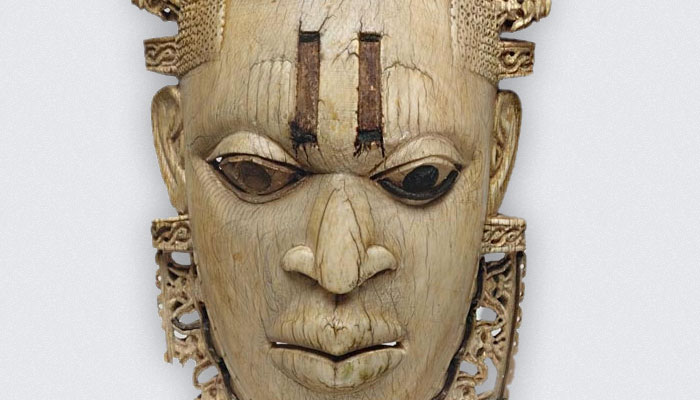
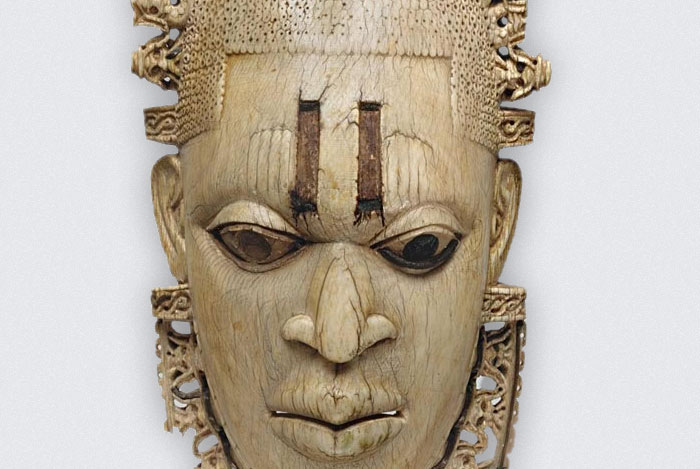
larger mask to allow for flash messages

Changed region(s): [[0.18, 0.0, 0.81, 0.99]]

diff --git a/ckanext/edo/public/styles/edo.css b/ckanext/edo/public/styles/edo.css
@@ -1,1 +1,1 @@
-.masthead{padding-top:8px;padding-bottom:7px}.nav-item.active>a:before{background-image:none;width:0;height:0;border-top:17px solid transparent;border-bottom:17px solid transparent;border-left:6px solid #8ca0a6}.site-footer .attribution{float:right}.site-footer .attribution strong{float:left}.site-footer .attribution .ckan-footer-logo{float:left;margin-left:10px}.site-footer .lang-select{clear:left;padding-top:10px}.hero{padding:0}.hero:before{content:' ';position:absolute;height:7px;width:100%;z-index:1;background:-moz-linear-gradient(top,rgba(0,0,0,0.25) 0,rgba(0,0,0,0) 100%);background:-webkit-gradient(linear,left top,left bottom,color-stop(0%,rgba(0,0,0,0.25)),color-stop(100%,rgba(0,0,0,0)));background:-webkit-linear-gradient(top,rgba(0,0,0,0.25) 0,rgba(0,0,0,0) 100%);background:-o-linear-gradient(top,rgba(0,0,0,0.25) 0,rgba(0,0,0,0) 100%);background:-ms-linear-gradient(top,rgba(0,0,0,0.25) 0,rgba(0,0,0,0) 100%);background:linear-gradient(to bottom,rgba(0,0,0,0.25) 0,rgba(0,0,0,0) 100%);filter:progid:DXImageTransform.Microsoft.gradient(startColorstr='#4d000000',endColorstr='#00000000',GradientType=0)}.hero>.container{padding-top:20px}.hero .hero-primary .module-content{-webkit-border-bottom-right-radius:0;-webkit-border-bottom-left-radius:0;-moz-border-radius-bottomright:0;-moz-border-radius-bottomleft:0;border-bottom-right-radius:0;border-bottom-left-radius:0}.hero .tags ul,.tags ul.tag-list{list-style:none}.hero .tags ul{margin:0;padding:0}.tags ul.tag-list{padding:15px}.hero .tags ul li,.hero .tags ul a.tag,.tags ul.tag-list li,.tags ul.tag-list a.tag{height:24px;line-height:24px;position:relative;font-size:11px}.hero .tags ul li,.hero .tags ul a.tag{float:left}.hero .tags ul a.tag,.tags ul.tag-list a.tag{margin-left:10px;padding:0 10px 0 12px;background:#005d7a;color:#fff;text-decoration:none;-webkit-border-radius:4px;-webkit-border-top-right-radius:0;-webkit-border-bottom-right-radius:0;-moz-border-radius:4px;-moz-border-radius-topright:0;-moz-border-radius-bottomright:0;border-radius:4px;border-top-right-radius:0;border-bottom-right-radius:0;border:0;-moz-box-shadow:none;-webkit-box-shadow:none;box-shadow:none}.hero .tags ul li:first-of-type a.tag,.tags ul.tag-list li:first-of-type a.tag{margin-left:0}.hero .tags ul a.tag:before,.tags ul.tag-list a.tag:before{content:"";float:right;position:absolute;top:0;right:-12px;width:0;height:0;border-color:transparent transparent transparent #005d7a;border-style:solid;border-width:12px 0 12px 12px}.hero .tags ul a.tag:after,.tags ul.tag-list a.tag:after{content:"";position:absolute;top:11px;right:-1px;float:right;width:3px;height:3px;-moz-border-radius:2px;-webkit-border-radius:2px;border-radius:2px;background:#fff;-moz-box-shadow:0 0 2px rgba(0,0,0,0.7);-webkit-box-shadow:0 0 2px rgba(0,0,0,0.7);box-shadow:0 0 2px rgba(0,0,0,0.7)}.hero .tags ul a.tag:hover,.tags ul.tag-list a.tag:hover{background:#003647}.hero .tags ul a.tag:hover:before,.tags ul.tag-list a.tag:hover:before{border-color:transparent transparent transparent #003647}.hero .tags ul li:before,.tags ul.tag-list li:before{content:"";float:right;position:absolute;width:0;height:0;border-color:transparent transparent transparent rgba(0,0,0,0);border-style:solid;border-width:12px 0 12px 12px;right:-3px;top:5px}.tags ul.tag-list li:before{right:-13px;top:0}.main.homepage .module:first-child .module-heading{-webkit-border-radius:3px 3px 0 0;-moz-border-radius:3px 3px 0 0;border-radius:3px 3px 0 0}a,.btn-link{color:#a33a01}a:hover,a:focus,.btn-link:hover,.btn-link:focus{color:#702801}.dropdown-menu>li>a:hover,.dropdown-menu>li>a:focus,.dropdown-submenu:hover>a,.dropdown-submenu:focus>a{background-color:#702801;background-image:-moz-linear-gradient(top,#a33a01,#702801);background-image:-webkit-gradient(linear,0 0,0 100%,from(#a33a01),to(#702801));background-image:-webkit-linear-gradient(top,#a33a01,#702801);background-image:-o-linear-gradient(top,#a33a01,#702801);background-image:linear-gradient(to bottom,#a33a01,#702801);filter:progid:DXImageTransform.Microsoft.gradient(startColorstr='#ff187794',endColorstr='#ff14657e',GradientType=0)}.dropdown-menu>.active>a,.dropdown-menu>.active>a:hover,.dropdown-menu>.active>a:focus{background-color:#702801;background-image:-moz-linear-gradient(top,#a33a01,#702801);background-image:-webkit-gradient(linear,0 0,0 100%,from(#a33a01),to(#702801));background-image:-webkit-linear-gradient(top,#a33a01,#702801);background-image:-o-linear-gradient(top,#a33a01,#702801);background-image:linear-gradient(to bottom,#a33a01,#702801);filter:progid:DXImageTransform.Microsoft.gradient(startColorstr='#ff187794',endColorstr='#ff14657e',GradientType=0)}.nav-list>.active>a,.nav-list>.active>a:hover,.nav-list>.active>a:focus{background-color:#a33a01}.nav-pills>.active>a,.nav-pills>.active>a:hover,.nav-pills>.active>a:focus{background-color:#a33a01}.nav .dropdown-toggle .caret{border-top-color:#a33a01;border-bottom-color:#a33a01}.nav .dropdown-toggle:hover .caret,.nav .dropdown-toggle:focus .caret{border-top-color:#3e1600;border-bottom-color:#3e1600}a.thumbnail:hover,a.thumbnail:focus{border-color:#a33a01;-webkit-box-shadow:0 1px 4px rgba(214,76,1,0.25);-moz-box-shadow:0 1px 4px rgba(214,76,1,0.25);box-shadow:0 1px 4px rgba(214,76,1,0.25)}.editor .editor-info-block a{color:#a33a01}.popover-followee .nav li a i{background-color:#a33a01;-webkit-box-shadow:inset 0 1px 2 x rgba(214,76,1,0.2);-moz-box-shadow:inset 0 1px 2 x rgba(214,76,1,0.2);box-shadow:inset 0 1px 2 x rgba(214,76,1,0.2)}.popover-followee .nav li.active a i{color:#a33a01}textarea:focus,input[type="text"]:focus,input[type="password"]:focus,input[type="datetime"]:focus,input[type="datetime-local"]:focus,input[type="date"]:focus,input[type="month"]:focus,input[type="time"]:focus,input[type="week"]:focus,input[type="number"]:focus,input[type="email"]:focus,input[type="url"]:focus,input[type="search"]:focus,input[type="tel"]:focus,input[type="color"]:focus,.uneditable-input:focus{border-color:#d64c01;-webkit-box-shadow:inset 0 1px 1px rgba(0,0,0,0.075),0 0 8px rgba(214,76,1,0.4);-moz-box-shadow:inset 0 1px 1px rgba(0,0,0,0.075),0 0 8px rgba(214,76,1,0.4);box-shadow:inset 0 1px 1px rgba(0,0,0,0.075),0 0 8px rgba(214,76,1,0.4)}.btn-primary{background-color:#a33a01;background-image:-moz-linear-gradient(top,#d64c01,#a33a01);background-image:-webkit-gradient(linear,0 0,0 100%,from(#d64c01),to(#a33a01));background-image:-webkit-linear-gradient(top,#d64c01,#a33a01);background-image:-o-linear-gradient(top,#d64c01,#a33a01);background-image:linear-gradient(to bottom,#d64c01,#a33a01);filter:progid:DXImageTransform.Microsoft.gradient(startColorstr='@primary',endColorstr='darken(@primary, 10%)',GradientType=0);border-color:#a33a01;border-color:rgba(0,0,0,0.1) rgba(0,0,0,0.1) rgba(0,0,0,0.25);filter:progid:DXImageTransform.Microsoft.gradient(enabled=false)}.btn-primary:hover,.btn-primary:focus,.btn-primary:active,.btn-primary.active,.btn-primary.disabled,.btn-primary[disabled]{background-color:#a33a01}.account-masthead{background-color:#343434;background-image:none}.account-masthead .account ul li{border-left-color:#000}.account-masthead .account .notifications a span{background-color:#000}.account-masthead .account ul li a{color:rgba(255,255,255,0.6)}.account-masthead .account ul li a:hover{color:rgba(255,255,255,0.7);background-color:#000}.masthead{background-color:#d64c01;background-image:none}.masthead .navigation .nav-pills li a:hover{background-color:#bd4301;color:#fff}.masthead .navigation .nav-pills li.active a{background-color:#ef5501}.masthead input[type="text"]{border-color:#a33a01}.masthead input[type="text"]:focus{-webkit-box-shadow:inset 0 0 2px 0 rgba(0,0,0,0.7);box-shadow:inset 0 0 2px 0 rgba(0,0,0,0.7)}.masthead .site-search input{padding:5px 10px}[role=main],.main{background-image:none;background-color:#f0f0f0}.box{box-shadow:none;-moz-box-shadow:none;-webkit-box-shadow:none}.pill{background-color:#343434}.pill a:hover{color:#FFF}.nav-item.active>a,.nav-item.active>a:hover{background-color:#343434}.nav-item.active>a:before{border-left-color:#343434}.site-footer,body{background-color:#343434;background-image:none}.site-footer .navigation .nav-pills li a:hover,.site-footer .navigation .nav-pills li.active a{background-color:#343434}.site-footer input[type="text"]{border-color:#1a1a1a}.site-footer,.site-footer label,.site-footer small{color:rgba(255,255,255,0.6)}.site-footer a{color:rgba(255,255,255,0.6)}.attribution small{color:rgba(255,255,255,0.6)}.banner{background-color:#d64c01}.hero{background-color:#ecedf1;background-image:url(../images/background-tile.png);background-repeat:repeat;background-position:center top;border-bottom:solid 9px #FFF}.hero>.container{background-image:url(../images/mask.jpg);background-repeat:no-repeat;background-position:center bottom}.hero .hero-primary{box-shadow:0 -7px 14px 4px rgba(0,0,0,0.1);-moz-box-shadow:0 -7px 14px 4px rgba(0,0,0,0.1);-webkit-box-shadow:0 -7px 14px 4px rgba(0,0,0,0.1)}.hero .hero-primary .module-content,.hero .hero-secondary .module-dark .module-content{box-shadow:0 0 0 5px rgba(255,255,255,0.8);-moz-box-shadow:0 0 0 5px rgba(255,255,255,0.8);-webkit-box-shadow:0 0 0 5px rgba(255,255,255,0.8)}.hero .hero-primary .module-content{border-bottom:0}.hero .hero-secondary .module-dark{padding:0;background-color:transparent;box-shadow:none;-moz-box-shadow:none;-webkit-box-shadow:none;border:0;margin-left:1px;margin-right:1px}.hero .module-dark .module-content{background-color:#d64c01;-webkit-border-radius:3px;-moz-border-radius:3px;border-radius:3px}.hero .search-giant input{border-color:#a33a01}.hero .search-giant input:focus{-webkit-box-shadow:inset 0 0 2px 0 rgba(0,0,0,0.7);box-shadow:inset 0 0 2px 0 rgba(0,0,0,0.7)}.hero .tags{background-color:transparent}.hero .tags h3{text-shadow:0 0 2px #000;filter:dropshadow(color=#000000,offx=0,offy=0)}.hero .tags ul a.tag,.tags ul.tag-list a.tag{background:#FFF;color:#d64c01;box-shadow:0 0 1px rgba(0,0,0,0.3)}.hero .tags ul a.tag:before,.tags ul.tag-list a.tag:before{border-left-color:#FFF}.hero .tags ul a.tag:after{background-color:#ebecf0}.tags ul.tag-list a.tag:after{background-color:#f5f5f5}.hero .tags ul a.tag:hover,.tags ul.tag-list a.tag:hover{background:#d64c01;color:#fff}.hero .tags ul a.tag:hover:before,.tags ul.tag-list a.tag:hover:before{border-left-color:#d64c01}.hero .tags ul li:before,.tags ul.tag-list li:before{border-color:transparent transparent transparent rgba(0,0,0,0.1)}
+.masthead{padding-top:8px;padding-bottom:7px}.nav-item.active>a:before{background-image:none;width:0;height:0;border-top:17px solid transparent;border-bottom:17px solid transparent;border-left:6px solid #8ca0a6}.site-footer .attribution{float:right}.site-footer .attribution strong{float:left}.site-footer .attribution .ckan-footer-logo{float:left;margin-left:10px}.site-footer .lang-select{clear:left;padding-top:10px}.hero{padding:0}.hero:before{content:' ';position:absolute;height:7px;width:100%;z-index:1;background:-moz-linear-gradient(top,rgba(0,0,0,0.25) 0,rgba(0,0,0,0) 100%);background:-webkit-gradient(linear,left top,left bottom,color-stop(0%,rgba(0,0,0,0.25)),color-stop(100%,rgba(0,0,0,0)));background:-webkit-linear-gradient(top,rgba(0,0,0,0.25) 0,rgba(0,0,0,0) 100%);background:-o-linear-gradient(top,rgba(0,0,0,0.25) 0,rgba(0,0,0,0) 100%);background:-ms-linear-gradient(top,rgba(0,0,0,0.25) 0,rgba(0,0,0,0) 100%);background:linear-gradient(to bottom,rgba(0,0,0,0.25) 0,rgba(0,0,0,0) 100%);filter:progid:DXImageTransform.Microsoft.gradient(startColorstr='#4d000000',endColorstr='#00000000',GradientType=0)}.hero>.container{padding-top:20px}.hero .hero-primary .module-content{-webkit-border-bottom-right-radius:0;-webkit-border-bottom-left-radius:0;-moz-border-radius-bottomright:0;-moz-border-radius-bottomleft:0;border-bottom-right-radius:0;border-bottom-left-radius:0}.hero .tags ul,.tags ul.tag-list{list-style:none}.hero .tags ul{margin:0;padding:0}.tags ul.tag-list{padding:15px}.hero .tags ul li,.hero .tags ul a.tag,.tags ul.tag-list li,.tags ul.tag-list a.tag{height:24px;line-height:24px;position:relative;font-size:11px}.hero .tags ul li,.hero .tags ul a.tag{float:left}.hero .tags ul a.tag,.tags ul.tag-list a.tag{margin-left:10px;padding:0 10px 0 12px;background:#005d7a;color:#fff;text-decoration:none;-webkit-border-radius:4px;-webkit-border-top-right-radius:0;-webkit-border-bottom-right-radius:0;-moz-border-radius:4px;-moz-border-radius-topright:0;-moz-border-radius-bottomright:0;border-radius:4px;border-top-right-radius:0;border-bottom-right-radius:0;border:0;-moz-box-shadow:none;-webkit-box-shadow:none;box-shadow:none}.hero .tags ul li:first-of-type a.tag,.tags ul.tag-list li:first-of-type a.tag{margin-left:0}.hero .tags ul a.tag:before,.tags ul.tag-list a.tag:before{content:"";float:right;position:absolute;top:0;right:-12px;width:0;height:0;border-color:transparent transparent transparent #005d7a;border-style:solid;border-width:12px 0 12px 12px}.hero .tags ul a.tag:after,.tags ul.tag-list a.tag:after{content:"";position:absolute;top:11px;right:-1px;float:right;width:3px;height:3px;-moz-border-radius:2px;-webkit-border-radius:2px;border-radius:2px;background:#fff;-moz-box-shadow:0 0 2px rgba(0,0,0,0.7);-webkit-box-shadow:0 0 2px rgba(0,0,0,0.7);box-shadow:0 0 2px rgba(0,0,0,0.7)}.hero .tags ul a.tag:hover,.tags ul.tag-list a.tag:hover{background:#003647}.hero .tags ul a.tag:hover:before,.tags ul.tag-list a.tag:hover:before{border-color:transparent transparent transparent #003647}.hero .tags ul li:before,.tags ul.tag-list li:before{content:"";float:right;position:absolute;width:0;height:0;border-color:transparent transparent transparent rgba(0,0,0,0);border-style:solid;border-width:12px 0 12px 12px;right:-3px;top:5px}.tags ul.tag-list li:before{right:-13px;top:0}.main.homepage .module:first-child .module-heading{-webkit-border-radius:3px 3px 0 0;-moz-border-radius:3px 3px 0 0;border-radius:3px 3px 0 0}a,.btn-link{color:#a33a01}a:hover,a:focus,.btn-link:hover,.btn-link:focus{color:#702801}.dropdown-menu>li>a:hover,.dropdown-menu>li>a:focus,.dropdown-submenu:hover>a,.dropdown-submenu:focus>a{background-color:#702801;background-image:-moz-linear-gradient(top,#a33a01,#702801);background-image:-webkit-gradient(linear,0 0,0 100%,from(#a33a01),to(#702801));background-image:-webkit-linear-gradient(top,#a33a01,#702801);background-image:-o-linear-gradient(top,#a33a01,#702801);background-image:linear-gradient(to bottom,#a33a01,#702801);filter:progid:DXImageTransform.Microsoft.gradient(startColorstr='#ff187794',endColorstr='#ff14657e',GradientType=0)}.dropdown-menu>.active>a,.dropdown-menu>.active>a:hover,.dropdown-menu>.active>a:focus{background-color:#702801;background-image:-moz-linear-gradient(top,#a33a01,#702801);background-image:-webkit-gradient(linear,0 0,0 100%,from(#a33a01),to(#702801));background-image:-webkit-linear-gradient(top,#a33a01,#702801);background-image:-o-linear-gradient(top,#a33a01,#702801);background-image:linear-gradient(to bottom,#a33a01,#702801);filter:progid:DXImageTransform.Microsoft.gradient(startColorstr='#ff187794',endColorstr='#ff14657e',GradientType=0)}.nav-list>.active>a,.nav-list>.active>a:hover,.nav-list>.active>a:focus{background-color:#a33a01}.nav-pills>.active>a,.nav-pills>.active>a:hover,.nav-pills>.active>a:focus{background-color:#a33a01}.nav .dropdown-toggle .caret{border-top-color:#a33a01;border-bottom-color:#a33a01}.nav .dropdown-toggle:hover .caret,.nav .dropdown-toggle:focus .caret{border-top-color:#3e1600;border-bottom-color:#3e1600}a.thumbnail:hover,a.thumbnail:focus{border-color:#a33a01;-webkit-box-shadow:0 1px 4px rgba(214,76,1,0.25);-moz-box-shadow:0 1px 4px rgba(214,76,1,0.25);box-shadow:0 1px 4px rgba(214,76,1,0.25)}.editor .editor-info-block a{color:#a33a01}.popover-followee .nav li a i{background-color:#a33a01;-webkit-box-shadow:inset 0 1px 2 x rgba(214,76,1,0.2);-moz-box-shadow:inset 0 1px 2 x rgba(214,76,1,0.2);box-shadow:inset 0 1px 2 x rgba(214,76,1,0.2)}.popover-followee .nav li.active a i{color:#a33a01}textarea:focus,input[type="text"]:focus,input[type="password"]:focus,input[type="datetime"]:focus,input[type="datetime-local"]:focus,input[type="date"]:focus,input[type="month"]:focus,input[type="time"]:focus,input[type="week"]:focus,input[type="number"]:focus,input[type="email"]:focus,input[type="url"]:focus,input[type="search"]:focus,input[type="tel"]:focus,input[type="color"]:focus,.uneditable-input:focus{border-color:#d64c01;-webkit-box-shadow:inset 0 1px 1px rgba(0,0,0,0.075),0 0 8px rgba(214,76,1,0.4);-moz-box-shadow:inset 0 1px 1px rgba(0,0,0,0.075),0 0 8px rgba(214,76,1,0.4);box-shadow:inset 0 1px 1px rgba(0,0,0,0.075),0 0 8px rgba(214,76,1,0.4)}.btn-primary{background-color:#a33a01;background-image:-moz-linear-gradient(top,#d64c01,#a33a01);background-image:-webkit-gradient(linear,0 0,0 100%,from(#d64c01),to(#a33a01));background-image:-webkit-linear-gradient(top,#d64c01,#a33a01);background-image:-o-linear-gradient(top,#d64c01,#a33a01);background-image:linear-gradient(to bottom,#d64c01,#a33a01);filter:progid:DXImageTransform.Microsoft.gradient(startColorstr='@primary',endColorstr='darken(@primary, 10%)',GradientType=0);border-color:#a33a01;border-color:rgba(0,0,0,0.1) rgba(0,0,0,0.1) rgba(0,0,0,0.25);filter:progid:DXImageTransform.Microsoft.gradient(enabled=false)}.btn-primary:hover,.btn-primary:focus,.btn-primary:active,.btn-primary.active,.btn-primary.disabled,.btn-primary[disabled]{background-color:#a33a01}.account-masthead{background-color:#343434;background-image:none}.account-masthead .account ul li{border-left-color:#000}.account-masthead .account .notifications a span{background-color:#000}.account-masthead .account ul li a{color:rgba(255,255,255,0.6)}.account-masthead .account ul li a:hover{color:rgba(255,255,255,0.7);background-color:#000}.masthead{background-color:#d64c01;background-image:none}.masthead .navigation .nav-pills li a:hover{background-color:#bd4301;color:#fff}.masthead .navigation .nav-pills li.active a{background-color:#ef5501}.masthead input[type="text"]{border-color:#a33a01}.masthead input[type="text"]:focus{-webkit-box-shadow:inset 0 0 2px 0 rgba(0,0,0,0.7);box-shadow:inset 0 0 2px 0 rgba(0,0,0,0.7)}.masthead .site-search input{padding:5px 10px}[role=main],.main{background-image:none;background-color:#f0f0f0}.box{box-shadow:none;-moz-box-shadow:none;-webkit-box-shadow:none}.pill{background-color:#343434}.pill a:hover{color:#FFF}.nav-item.active>a,.nav-item.active>a:hover{background-color:#343434}.nav-item.active>a:before{border-left-color:#343434}.site-footer,body{background-color:#343434;background-image:none}.site-footer .navigation .nav-pills li a:hover,.site-footer .navigation .nav-pills li.active a{background-color:#343434}.site-footer input[type="text"]{border-color:#1a1a1a}.site-footer,.site-footer label,.site-footer small{color:rgba(255,255,255,0.6)}.site-footer a{color:rgba(255,255,255,0.6)}.attribution small{color:rgba(255,255,255,0.6)}.banner{background-color:#d64c01}.hero{background-color:#ecedf1;background-image:url(../images/background-tile.png);background-repeat:repeat;background-position:center bottom;border-bottom:solid 9px #FFF}.hero>.container{background-image:url(../images/mask.jpg);background-repeat:no-repeat;background-position:center bottom}.hero .hero-primary{box-shadow:0 -7px 14px 4px rgba(0,0,0,0.1);-moz-box-shadow:0 -7px 14px 4px rgba(0,0,0,0.1);-webkit-box-shadow:0 -7px 14px 4px rgba(0,0,0,0.1)}.hero .hero-primary .module-content,.hero .hero-secondary .module-dark .module-content{box-shadow:0 0 0 5px rgba(255,255,255,0.8);-moz-box-shadow:0 0 0 5px rgba(255,255,255,0.8);-webkit-box-shadow:0 0 0 5px rgba(255,255,255,0.8)}.hero .hero-primary .module-content{border-bottom:0}.hero .hero-secondary .module-dark{padding:0;background-color:transparent;box-shadow:none;-moz-box-shadow:none;-webkit-box-shadow:none;border:0;margin-left:1px;margin-right:1px}.hero .module-dark .module-content{background-color:#d64c01;-webkit-border-radius:3px;-moz-border-radius:3px;border-radius:3px}.hero .search-giant input{border-color:#a33a01}.hero .search-giant input:focus{-webkit-box-shadow:inset 0 0 2px 0 rgba(0,0,0,0.7);box-shadow:inset 0 0 2px 0 rgba(0,0,0,0.7)}.hero .tags{background-color:transparent}.hero .tags h3{text-shadow:0 0 2px #000;filter:dropshadow(color=#000000,offx=0,offy=0)}.hero .tags ul a.tag,.tags ul.tag-list a.tag{background:#FFF;color:#d64c01;box-shadow:0 0 1px rgba(0,0,0,0.3)}.hero .tags ul a.tag:before,.tags ul.tag-list a.tag:before{border-left-color:#FFF}.hero .tags ul a.tag:after{background-color:#ebecf0}.tags ul.tag-list a.tag:after{background-color:#f5f5f5}.hero .tags ul a.tag:hover,.tags ul.tag-list a.tag:hover{background:#d64c01;color:#fff}.hero .tags ul a.tag:hover:before,.tags ul.tag-list a.tag:hover:before{border-left-color:#d64c01}.hero .tags ul li:before,.tags ul.tag-list li:before{border-color:transparent transparent transparent rgba(0,0,0,0.1)}

diff --git a/ckanext/edo/public/styles/less/brand.less b/ckanext/edo/public/styles/less/brand.less
@@ -248,7 +248,7 @@ body {
 	background-color: #ecedf1;
 	background-image: url(../images/background-tile.png);
 	background-repeat: repeat;
-	background-position: center top;
+	background-position: center bottom;
 	border-bottom:solid 9px #FFF;
 }
 
